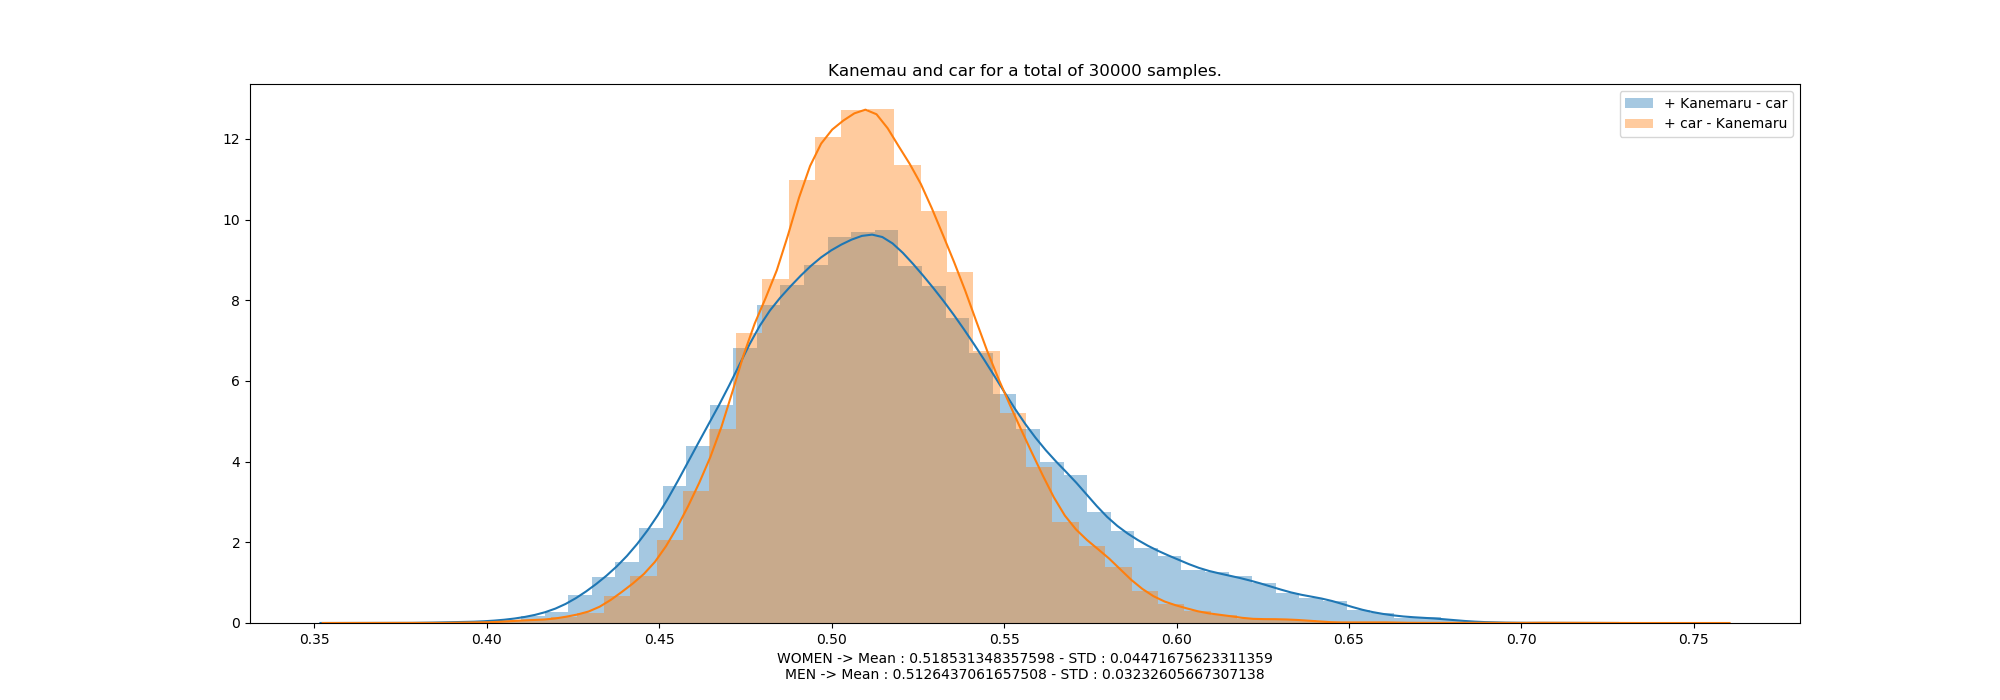
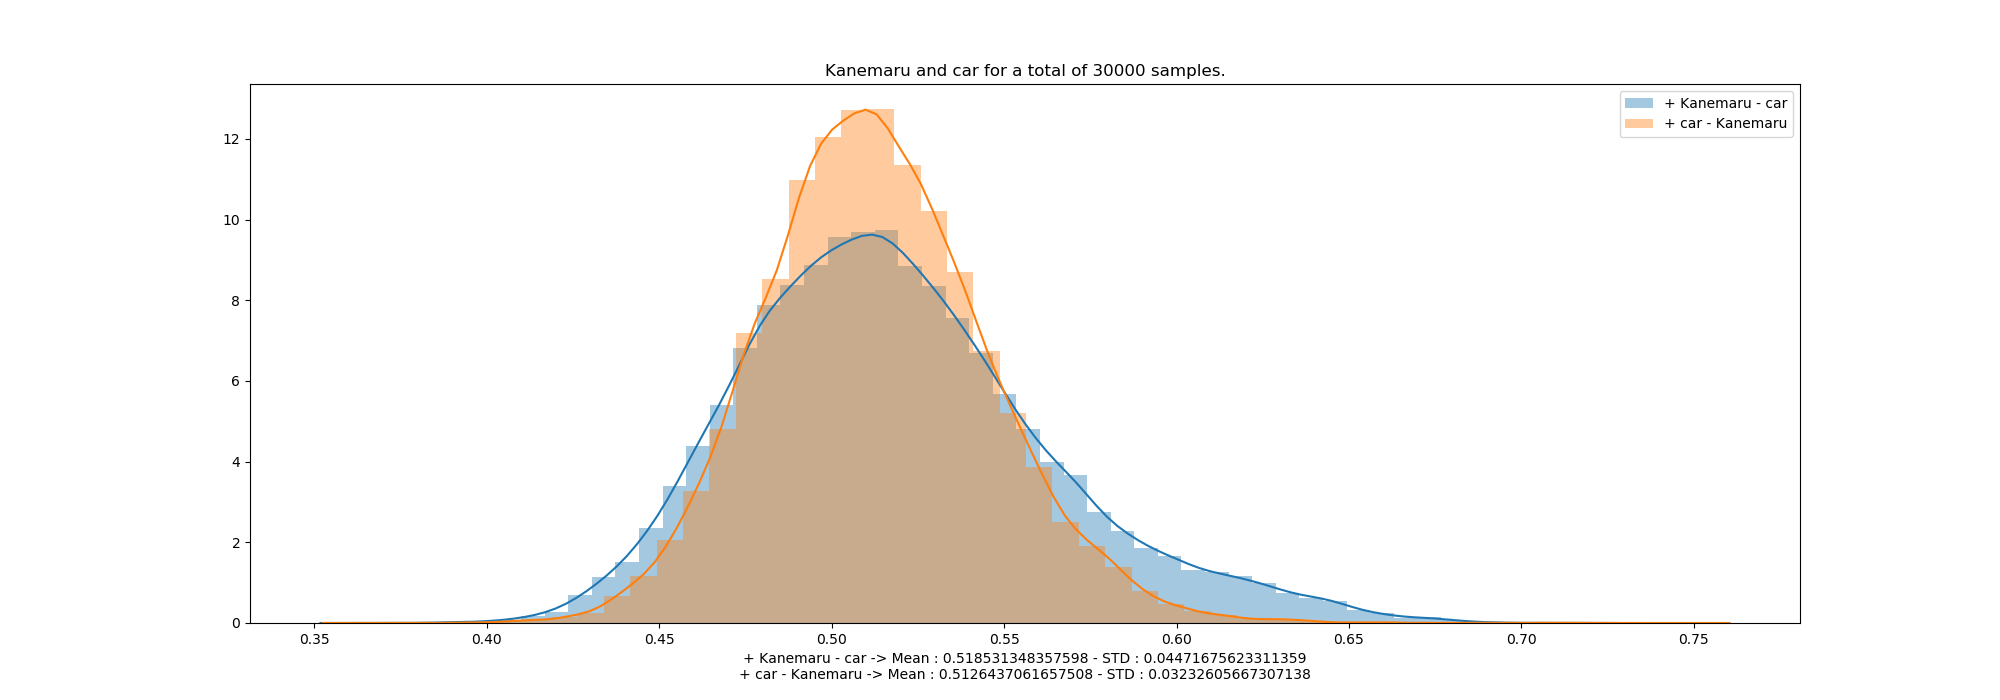
updated

Changed region(s): [[0.372, 0.93, 0.651, 0.99], [0.403, 0.09, 0.62, 0.12]]

diff --git a/Graphics_Random_SQL_1.py b/Graphics_Random_SQL_1.py
@@ -87,17 +87,32 @@ def car_and_Kanemaru():
 	datos2 = cursor.fetchall()
 	cantidad2 = len(datos2)
 	plt.figure(figsize = (20, 7))
-	plt.title('Kanemau and car for a total of ' + str(cantidad1) + ' samples.')
+	plt.title('Kanemaru and car for a total of ' + str(cantidad1) + ' samples.')
 	sns.distplot(datos1, label = '+ Kanemaru - car')
 	sns.distplot(datos2, label = '+ car - Kanemaru')
 	plt.legend()
-	plt.xlabel('WOMEN -> Mean : ' + str(np.mean(datos1)) + ' - STD : ' + str(np.std(datos1)) + '\nMEN -> Mean : ' + str(np.mean(datos2)) + ' - STD : ' + str(np.std(datos2)))
+	plt.xlabel('+ Kanemaru - car -> Mean : ' + str(np.mean(datos1)) + ' - STD : ' + str(np.std(datos1)) + '\n+ car - Kanemaru -> Mean : ' + str(np.mean(datos2)) + ' - STD : ' + str(np.std(datos2)))
 	plt.savefig('/Users/manuelgijon/Documents/Programación/Masters_thesis/Data/Images/Kanemau and car for a total of ' + str(cantidad1) + ' samples.png')
 	plt.show()
 
-
 car_and_Kanemaru()
 
+def Scatter_car_and_Kanemaru():
+	cursor.execute("SELECT Kanemaru_car_value FROM R1")
+	datos1 = cursor.fetchall()
+	cantidad1 = len(datos1)
+	cursor.execute("SELECT car_Kanemaru_value FROM R1")
+	datos2 = cursor.fetchall()
+	cantidad2 = len(datos2)
+	plt.figure(figsize = (20, 7))
+	plt.title('Scatter Kanemaru and car for a total of ' + str(cantidad1) + ' samples.')
+	plt.scatter(datos1, datos2)
+	plt.ylabel('+ car - Kanemaru')
+	plt.xlabel('+ Kanemaru - car')
+	plt.savefig('/Users/manuelgijon/Documents/Programación/Masters_thesis/Data/Images/Scatter Kanemau and car for a total of ' + str(cantidad1) + ' samples.png')
+	plt.show()
+
+Scatter_car_and_Kanemaru()
 
 
 # close the conexion with the data base
